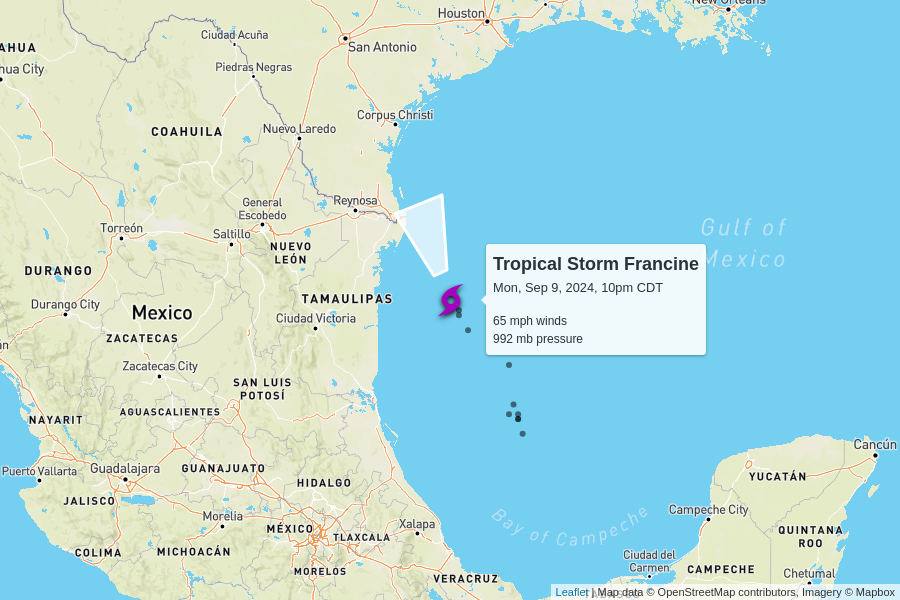
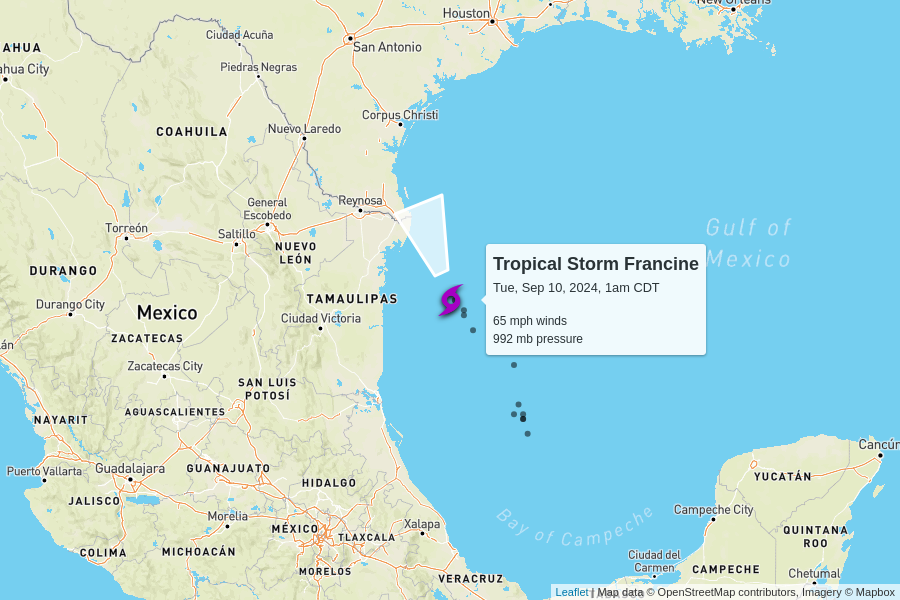
automatic update

diff --git a/docs/index.html b/docs/index.html
@@ -102,7 +102,7 @@
         <td colspan="6" class="storm category-0" >
           <h2>
             Tropical Storm Francine
-            <p class="updated">last updated <span data-time>2024-09-10T03:00:00.000Z</span></p>
+            <p class="updated">last updated <span data-time>2024-09-10T06:00:00.000Z</span></p>
           </h2>
         </td>
       </tr>
@@ -118,7 +118,7 @@
       <tr>
         <td class="spacer"></td>
         <td>65 mph<br>0 mph since last update</td>
-        <td>992 mb<br>-1 mb since last update</td>
+        <td>992 mb<br>0 mb since last update</td>
         <td>
           5 mph to the north-northwest
           <br/>
